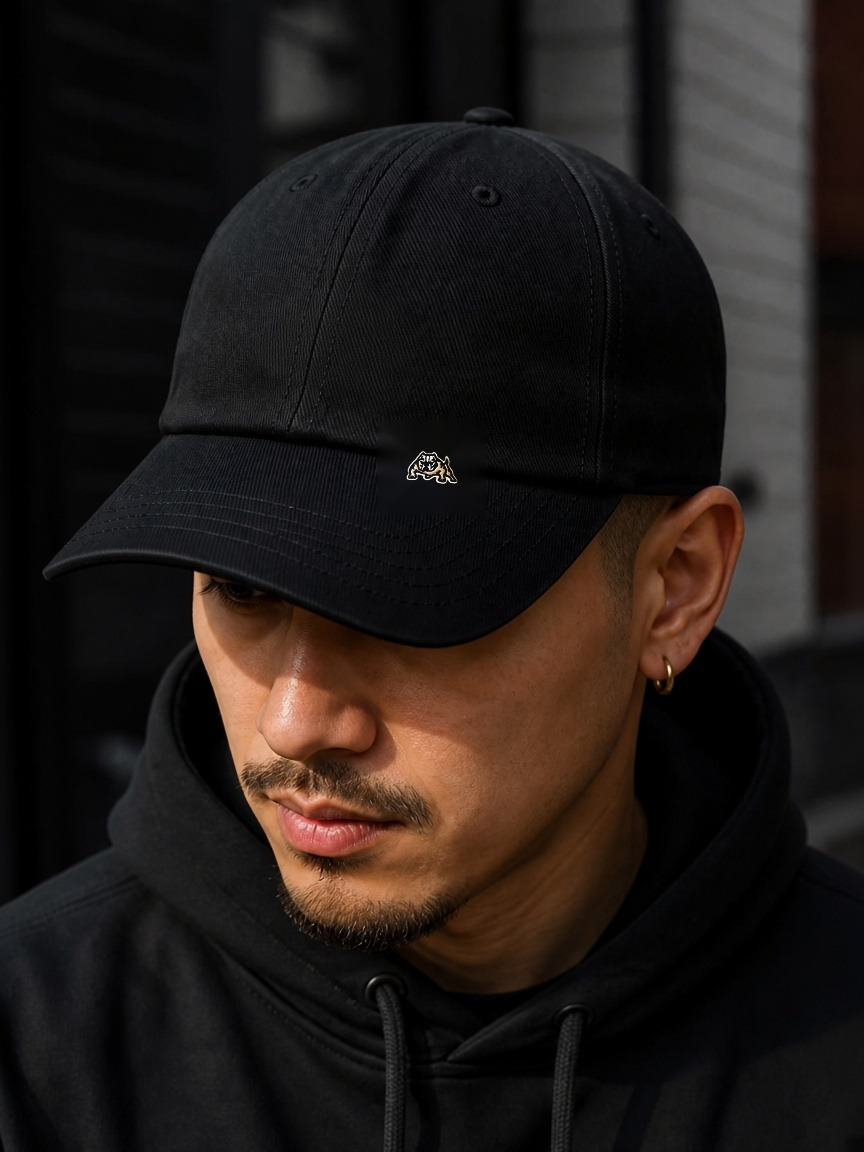
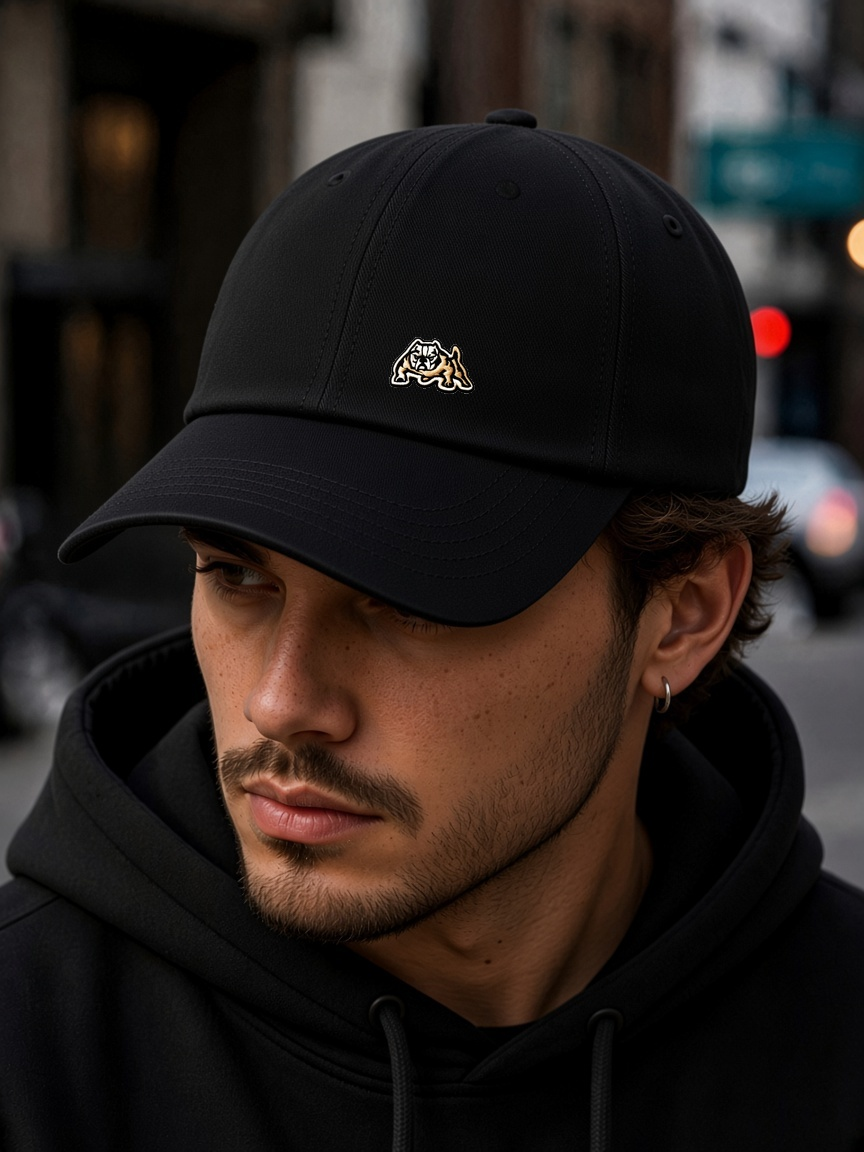
Ship clean Mark Zip/Shorts/Cap embroidery stamps.
Replace ghosted/tilted logos with hard-alpha micro crouching-dog stamps on blank bases and bump ASSET_V past live cache.

diff --git a/js/site-config.js b/js/site-config.js
@@ -7,7 +7,7 @@
  */
 (function () {
   // Bump when lookbook JPGs change so browsers skip stale CDN/disk cache.
-  const ASSET_V = '20260924b';
+  const ASSET_V = '20260924c';
 
   const COLORWAYS = [
     { name: 'Pink', slug: 'pink', hex: '#e5b3c5' },
